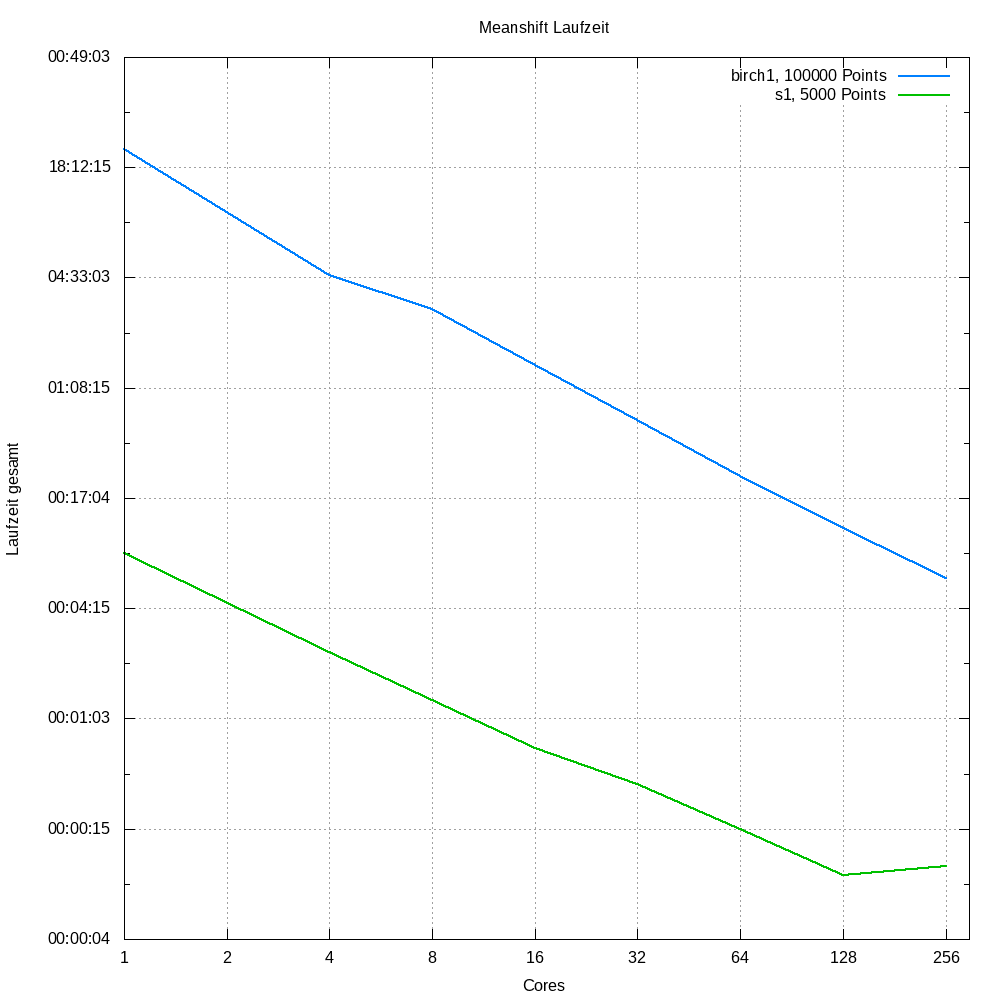
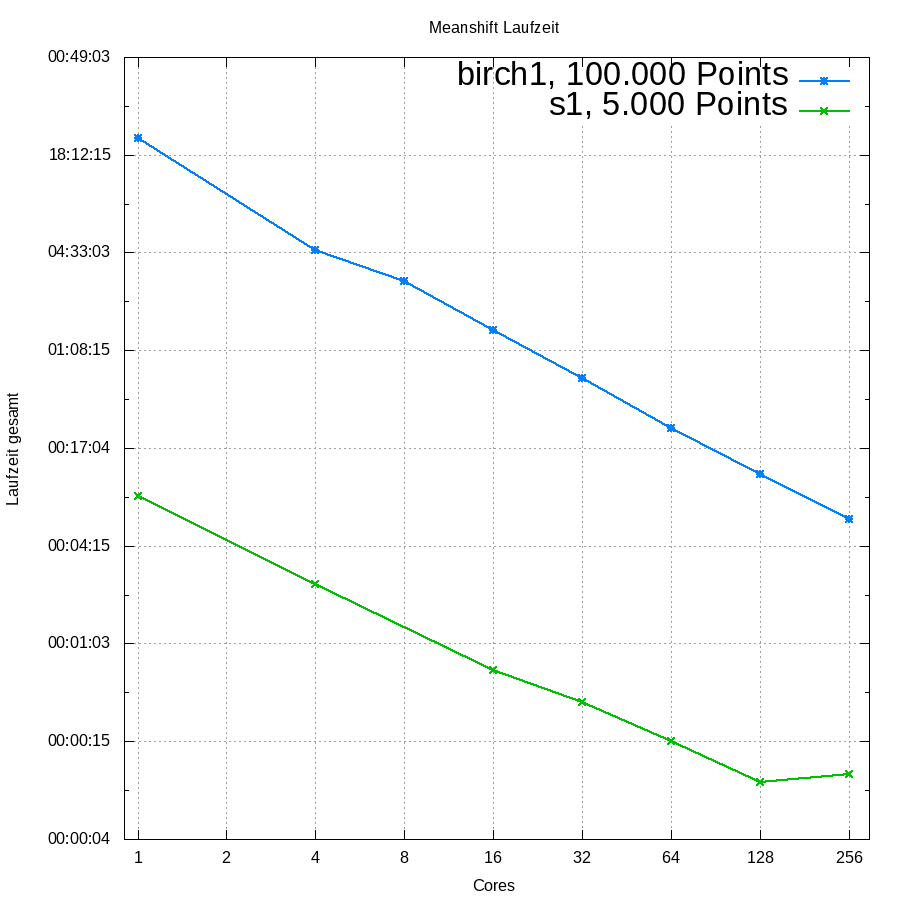
fix presi

diff --git a/meanshift/presentation/presi.tex b/meanshift/presentation/presi.tex
@@ -41,22 +41,35 @@
 \frametitle{Inhalt}
 	\tableofcontents
 \end{frame}
+\Large
 
-\section{Mean Shift}
+\section{Einführung}
 \begin{frame}
 	\frametitle{Einf\"uhrung}
-	\includegraphics[scale=0.22, keepaspectratio]{../output/pics/s1_black.png}
-	\includegraphics[scale=0.22, keepaspectratio]{../output/pics/s1_colored.png}
+		\centering
+		\begin{figure}[p!]
+			\vspace{-10pt}
+			\hspace{-25pt}
+			\includegraphics[scale=0.23, keepaspectratio]{../output/pics/s1_black.png}
+			\includegraphics[scale=0.23, keepaspectratio]{../output/pics/s1_colored.png}
+			\caption{Mean Shift Eingabe und Ausgabe [B0,B1]}
+		\end{figure}
 \end{frame}
 \begin{frame}
 	\frametitle{Einf\"uhrung}
  		\[ m(x) = \frac{\sum_{x_i \in N(x)} K(x_i - x) x_i }{\sum_{x_i \in N(x)} K(x_i - x)} \]
-		\vspace{-10pt}
-		\begin{figure}[H]
-			\centering
-			\includegraphics[scale=0.7]{../output/pics/gauss.png}
-			\caption{Normierter Gaußkern[B0]}
-		\end{figure}
+\begin{figure}
+    \begin{columns}%
+        \begin{column}{0.5\textwidth}%
+	  \includegraphics[scale=0.7]{../output/pics/gauss.png}
+        \end{column}%
+        \begin{column}{0.7\textwidth}%
+			\vspace{-10pt}
+			\hspace{35pt}
+		\caption{Normierter Gaußkern[B2]}
+        \end{column}%
+    \end{columns}
+\end{figure}
 \end{frame}
 
 \section{Implementation}
@@ -67,6 +80,7 @@
 		\item Punkte werden statisch auf Cores gleichverteilt
 		\item Hauptprozess führt Daten wieder zusammen
 	\end{itemize}
+\normalsize
 	\lstset{language=C,
 		basicstyle=\ttfamily,
 		keywordstyle=\color{blue}\ttfamily,
@@ -84,6 +98,7 @@ while(point) {
 }
 	\end{lstlisting}
 \end{frame}
+\Large
 \begin{frame}
 	\frametitle{MPI}
 	\begin{itemize}
@@ -103,25 +118,36 @@ while(point) {
 			\hspace{-19pt}
 			\parbox{0.5\linewidth}{%  change the parbox width as appropiate
 				\begin{itemize}
-					\item 5000 Punkte
-					\item 9 Minuten Laufzeit auf einem\\ Core
-					\item Kernelgröße 100000
+					\item 5.000 Punkte
+					\item 9 Minuten Laufzeit auf einem Core
+					\item Kernelgröße 100.000
 				\end{itemize}
 			}
 		\end{tabular}
 		& \begin{tabular}{l}
 			\vspace{-5pt}
 			\hspace{-35pt}
-			\includegraphics[scale=0.23, keepaspectratio]{../output/pics/s2_colored.png}
+			\parbox{0.5\linewidth}{%  change the parbox width as appropiate
+				\begin{figure}
+					\centering
+					\includegraphics[scale=0.24, keepaspectratio]{../output/pics/s2_colored.png}
+					\vspace{-5pt}
+					\caption{S2 Colored [B3]}
+				\end{figure}
+			}
 		\end{tabular}\\
 	\end{tabular}
 \end{frame}
 
 \begin{frame}
-	\frametitle{Beispiele}
-	\vspace{-15pt}
 	\hspace{-16pt}
-	\includegraphics[scale=0.25, keepaspectratio]{../output/pics/sine.png} 
+	\begin{figure}
+		\centering
+		\vspace{-31pt}
+		\includegraphics[scale=0.25, keepaspectratio]{../output/pics/sine.png} 
+		\vspace{-14pt}
+		\caption{Birch3 Colored [B4]}
+	\end{figure}
 	%nur 41 Sekunden Laufzeit auf 128 Cores
 \end{frame}
 
@@ -133,8 +159,8 @@ while(point) {
 			\hspace{-19pt}
 			\parbox{0.5\linewidth}{%  change the parbox width as appropiate
 				\begin{itemize}
-					\item 100000 Punkte
-					\item 6 Minuten Laufzeit auf 128\\ Cores
+					\item 100.000 Punkte
+					\item 6 Minuten Laufzeit auf 128 Cores
 					\item Kernelgröße 50000
 				\end{itemize}
 			}
@@ -142,14 +168,27 @@ while(point) {
 		& \begin{tabular}{l}
 			\vspace{-5pt}
 			\hspace{-35pt}
-			\includegraphics[scale=0.23, keepaspectratio]{../output/pics/birch3_colored.png}
+			\parbox{0.5\linewidth}{%  change the parbox width as appropiate
+				\begin{figure}
+					\centering
+					\includegraphics[scale=0.264, keepaspectratio]{../output/pics/birch3_colored.png}
+					\vspace{-5pt}
+					\caption{Birch3 Colored [B5]}
+				\end{figure}
+			}
 		\end{tabular}\\
 	\end{tabular}
 \end{frame}
 \begin{frame}
 	\frametitle{Beispiele}
-	\includegraphics[scale=0.22, keepaspectratio]{../output/pics/s4_black.png}
-	\includegraphics[scale=0.22, keepaspectratio]{../output/pics/s4_colored.png}
+	\centering
+	\begin{figure}[p!]
+		\vspace{-10pt}
+		\hspace{-25pt}
+		\includegraphics[scale=0.23, keepaspectratio]{../output/pics/s4_black.png}
+		\includegraphics[scale=0.23, keepaspectratio]{../output/pics/s4_colored.png}
+		\caption{Mean Shift Eingabe und Ausgabe [B6,B7]}
+	\end{figure}
 \end{frame}
 \section{Benchmarks}
 \begin{frame}  
@@ -157,18 +196,25 @@ while(point) {
 	\begin{tabular}{cl}  
 		\begin{tabular}{c}
 			\vspace{-5pt}
-			\hspace{-35pt}
+			\hspace{-36pt}
 			\parbox{0.5\linewidth}{%  change the parbox width as appropiate
 				\begin{itemize}
-					\item Taurus hat 2x8 Cores
-					\item Ab 16 Cores Kommunikation\\ über Netzwerk
+					\item Taurus Node hat 2x8 Cores
+					\item Ab 16 Cores Kommunikation über Netzwerk
 				\end{itemize}
 			}
 		\end{tabular}
 		& \begin{tabular}{l}
-			\vspace{-5pt}
-			\hspace{-45pt}
-			\includegraphics[scale=0.28, keepaspectratio]{../output/pics/benchmark.png}
+			\vspace{-15pt}
+			\hspace{-49pt}
+			\parbox{0.5\linewidth}{%  change the parbox width as appropiate
+				\vspace{-15pt}
+				\begin{figure}[H!]
+					\includegraphics[scale=0.31, keepaspectratio]{../output/pics/benchmark.png}
+					\vspace{-10pt}
+					\caption{Laufzeit Benchmark [B8]}
+				\end{figure}
+			}
 		\end{tabular}\\
 	\end{tabular}
 \end{frame}
@@ -178,26 +224,42 @@ while(point) {
 	\begin{tabular}{cl}  
 		\begin{tabular}{c}
 			\vspace{-5pt}
-			\hspace{-35pt}
+			\hspace{-36pt}
 			\parbox{0.5\linewidth}{%  change the parbox width as appropiate
 				\begin{itemize}
-					\item Speedup nimmt bei vielen\\ Cores ab
-					\item Dynamische Verteilung der Punkte für bessere Auslastung
-					\item Skaliert
+					\item Speedup nimmt bei vielen Cores ab
+					\item Overhead bei kleinen Problemen groß
 				\end{itemize}
 			}
 		\end{tabular}
 		& \begin{tabular}{l}
+			\vspace{-15pt}
+			\hspace{-49pt}
+			\parbox{0.5\linewidth}{%  change the parbox width as appropiate
+				\vspace{-15pt}
+				\begin{figure}[H!]
+					\includegraphics[scale=0.31, keepaspectratio]{../output/pics/speedup.png}
+					\vspace{-10pt}
+					\caption{Speedup [B9]}
+				\end{figure}
+			}
+		\end{tabular}\\
+		& \begin{tabular}{l}
 			\vspace{-5pt}
-			\hspace{-45pt}
-			\includegraphics[scale=0.28, keepaspectratio]{../output/pics/speedup.png}
+			\hspace{-49pt}
 		\end{tabular}\\
 	\end{tabular}
 \end{frame}
 
 \begin{frame}
-	\includegraphics[scale=0.22, keepaspectratio]{../output/pics/s4_black.png}
-	\includegraphics[scale=0.22, keepaspectratio]{../output/pics/s4_colored.png}
+	\centering
+	\begin{figure}[p!]
+		\vspace{-10pt}
+		\hspace{-25pt}
+		\includegraphics[scale=0.23, keepaspectratio]{../output/pics/s4_black.png}
+		\includegraphics[scale=0.23, keepaspectratio]{../output/pics/s4_colored.png}
+		\caption{Mean Shift Eingabe und Ausgabe [B10,B11]}
+	\end{figure}
 \end{frame}
 \begin{frame}
 \frametitle{Quellen}

diff --git a/dok/ex/meanshift.tex b/dok/ex/meanshift.tex
@@ -8,7 +8,7 @@ Abschließend werden Benchmarks zum Speedup und Laufzeit der Implementation betr
 	\centering
 	\includegraphics[scale=0.61]{../meanshift/output/pics/s1_colored.png} 
 	\vspace{-10pt}
-	\caption{Mean Shift S1.txt}
+	\caption{Mean Shift S1[B0]}
 \end{figure}
 \section{Algorithmus}
 	Für jeden Punkt $ x $ der Eingabe wird ein Verschiebungsvektor $ m $ berechnet. 
@@ -28,8 +28,8 @@ Abschließend werden Benchmarks zum Speedup und Laufzeit der Implementation betr
 	\vspace{-10pt}
 	\begin{figure}[H]
 		\centering
-		\includegraphics[scale=0.8]{../meanshift/output/pics/gauss.png} 
-		\caption{Normierter Gaußkern S1.txt}
+		\includegraphics[scale=0.85]{../meanshift/output/pics/gauss.png} 
+		\caption{Normierter Gaußkern[B1]}
 	\end{figure}
 	Für die Testdaten[2] wurde experimentell eine passende Varianz bestimmt.\\
 	Die Punkte werden in einer einfach verketteten Liste gespeichert. Durch Speichern der Punkte in einer Baumstruktur, welche den Ort der
@@ -62,9 +62,12 @@ while(cur_point) {
 	\vspace{-10pt}
 	\begin{figure}[H]
 		\centering
-		\includegraphics[scale=0.61]{../meanshift/output/pics/birch3_colored.png} 
+		\includegraphics[scale=0.71]{../meanshift/output/pics/birch3_colored.png} 
 		\vspace{-5pt}
-		\caption{Birch3, 6 Minuten Laufzeit auf 128 Cores}
+		\caption{Birch3, 6 Minuten Laufzeit auf 128 Cores[B2]}
+			Die Clustererkennung funktioniert gut doch existieren einige aufällige Stellen.
+			Die hier angewandte Kernelgröße passt nicht auf alle vorhandenen Cluster. Es entstehen ungewünschte Artefakte (zum Beispiel (300k,200k)).
+			Der türkise Streifen (bei (900k,600k)) könnte mit einer nachträglichen Glättung entfernt werden.
 	\end{figure}
 	\newpage
 \section{Benchmark}
@@ -72,30 +75,32 @@ while(cur_point) {
 	5000 und 100000 Punkten auf 1, 2, 4, 8, 16, 32, 64, 128 und 256 Cores gestartet. Die gemessene Laufzeit des MPI Jobs wird mit der sequentiellen
 	Laufzeit verglichen.\\
 	\begin{figure}[H] \centering
-		\includegraphics[scale=0.61]{../meanshift/output/pics/speedup.png} 
-		\caption{Speedup}
+		\includegraphics[scale=0.69]{../meanshift/output/pics/speedup.png} 
+		\caption{Speedup[B3]}
 	\end{figure}
 	Bei steigender Anzahl an Cores nimmt der Speedup ab. Grund hierfür ist zum größten Teil die statische Verteilung der Punkte und die dadurch
 	resultierende nicht optimale Auslastung.\\
 	\newpage
 	\begin{figure}[H]
 		\centering
-		\includegraphics[scale=0.61]{../meanshift/output/pics/benchmark.png} 
-		\caption{Laufzeit Benchmark}
+		\includegraphics[scale=0.69]{../meanshift/output/pics/benchmark.png} 
+		\caption{Laufzeit Benchmark[B4]}
 	\end{figure}
-	Taurus hat jeweils zwei 8 Core Prozessoren auf einem Board. Daher zeigt sich bei 8 und 16 Cores eine Verschlechterung. 
+	Ein Taurus Knoten hat jeweils zwei 8 Core Prozessoren auf einem Board. Daher zeigt sich bei 8 und 16 Cores eine Verschlechterung. 
 	Ab 16 Cores läuft die Kommunikation zusätzlich über das Netzwerk.\\
+	Ab 128 Cores ist bei 5.000 Punkten kein Speedup mehr vorhanden. Bei einer größeren Anzahl an Cores verschlechtert sich sogar die Laufzeit. Hier
+	überwiegt der Overhead der MPI Kommunikation und das Zusammenführen der berechneten Cluster.\\
 	\newpage
 \section{Fazit}
 	Es existieren viele Möglichkeiten zur Optimierung des parallelen Algorithmus. Zum Beispiel eine dynamische Verteilung der Punkte oder eine dynamische Anpassung
 	der Wichtung um die Anzahl der benötigten Mean Shifts zu verringern.\\
 	Die Kerngröße muss momentan noch manuell angegeben werden. Dies könnte auch automatisiert werden.\\
 	Die markierten Cluster stimmen weitestgehend mit einer intuitiven Markierung überein. Punkte an der Grenze zu zwei Clustern werden jedoch häufig einem 
-	dritten Cluster zugeordent (Birch3, (30k,30k)). Hier wäre eine Glättung möglich, um Cluster mit wenigen Punkten in anliegenden Cluster aufzuteilen.\\
+	dritten Cluster zugeordent (Birch3, (300k,300k)). Hier wäre eine Glättung möglich, in der Cluster mit wenigen Punkten in anliegenden Cluster aufgeteilt werden.\\
 	\begin{figure}[H]
 		\centering
 		\includegraphics[scale=0.6]{../meanshift/output/pics/s4_colored.png} 
-		\caption{S4, 5000 Points}
+		\caption{S4, 5.000 Punkte[B5]}
 	\end{figure}
 \begin{thebibliography}{999}
 	\bibitem [0] {} Meanshift \url{http://homepages.inf.ed.ac.uk/rbf/CVonline/LOCAL_COPIES/TUZEL1/MeanShift.pdf}
